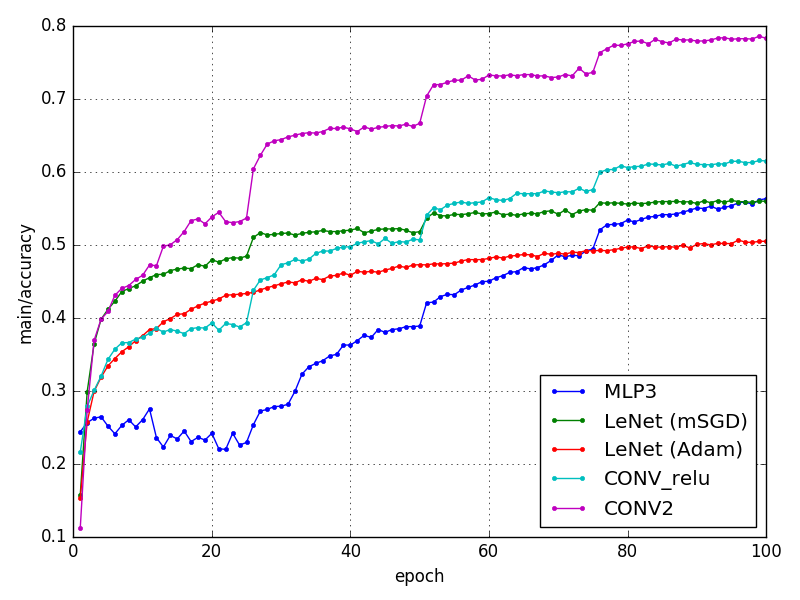
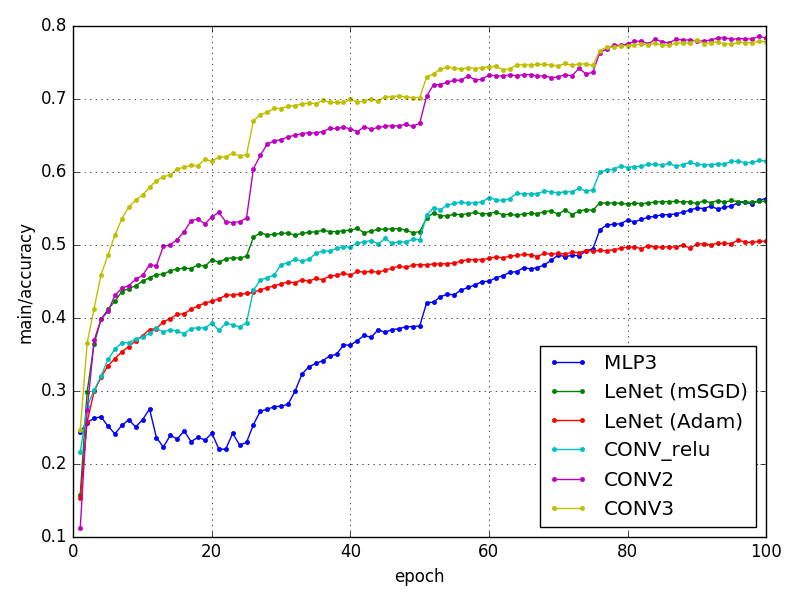
Add CONV3

diff --git a/plotter.py b/plotter.py
@@ -34,7 +34,8 @@ if __name__ == '__main__':
                 ('LeNet (mSGD)', 'result_LeNet_mSGD/log'),
                 ('LeNet (Adam)', 'result_LeNet_Adam/log'),
                 ('CONV_relu', 'result_CONV_relu/log'),
-                ('CONV2', 'result_CONV2/log')]
+                ('CONV2', 'result_CONV2/log'),
+                ('CONV3', 'result_CONV3/log')]
 
     plot_result(logfiles, 'main/loss', 'cifar10_loss.png')
     plot_result(logfiles, 'main/accuracy', 'cifar10_acc.png')
